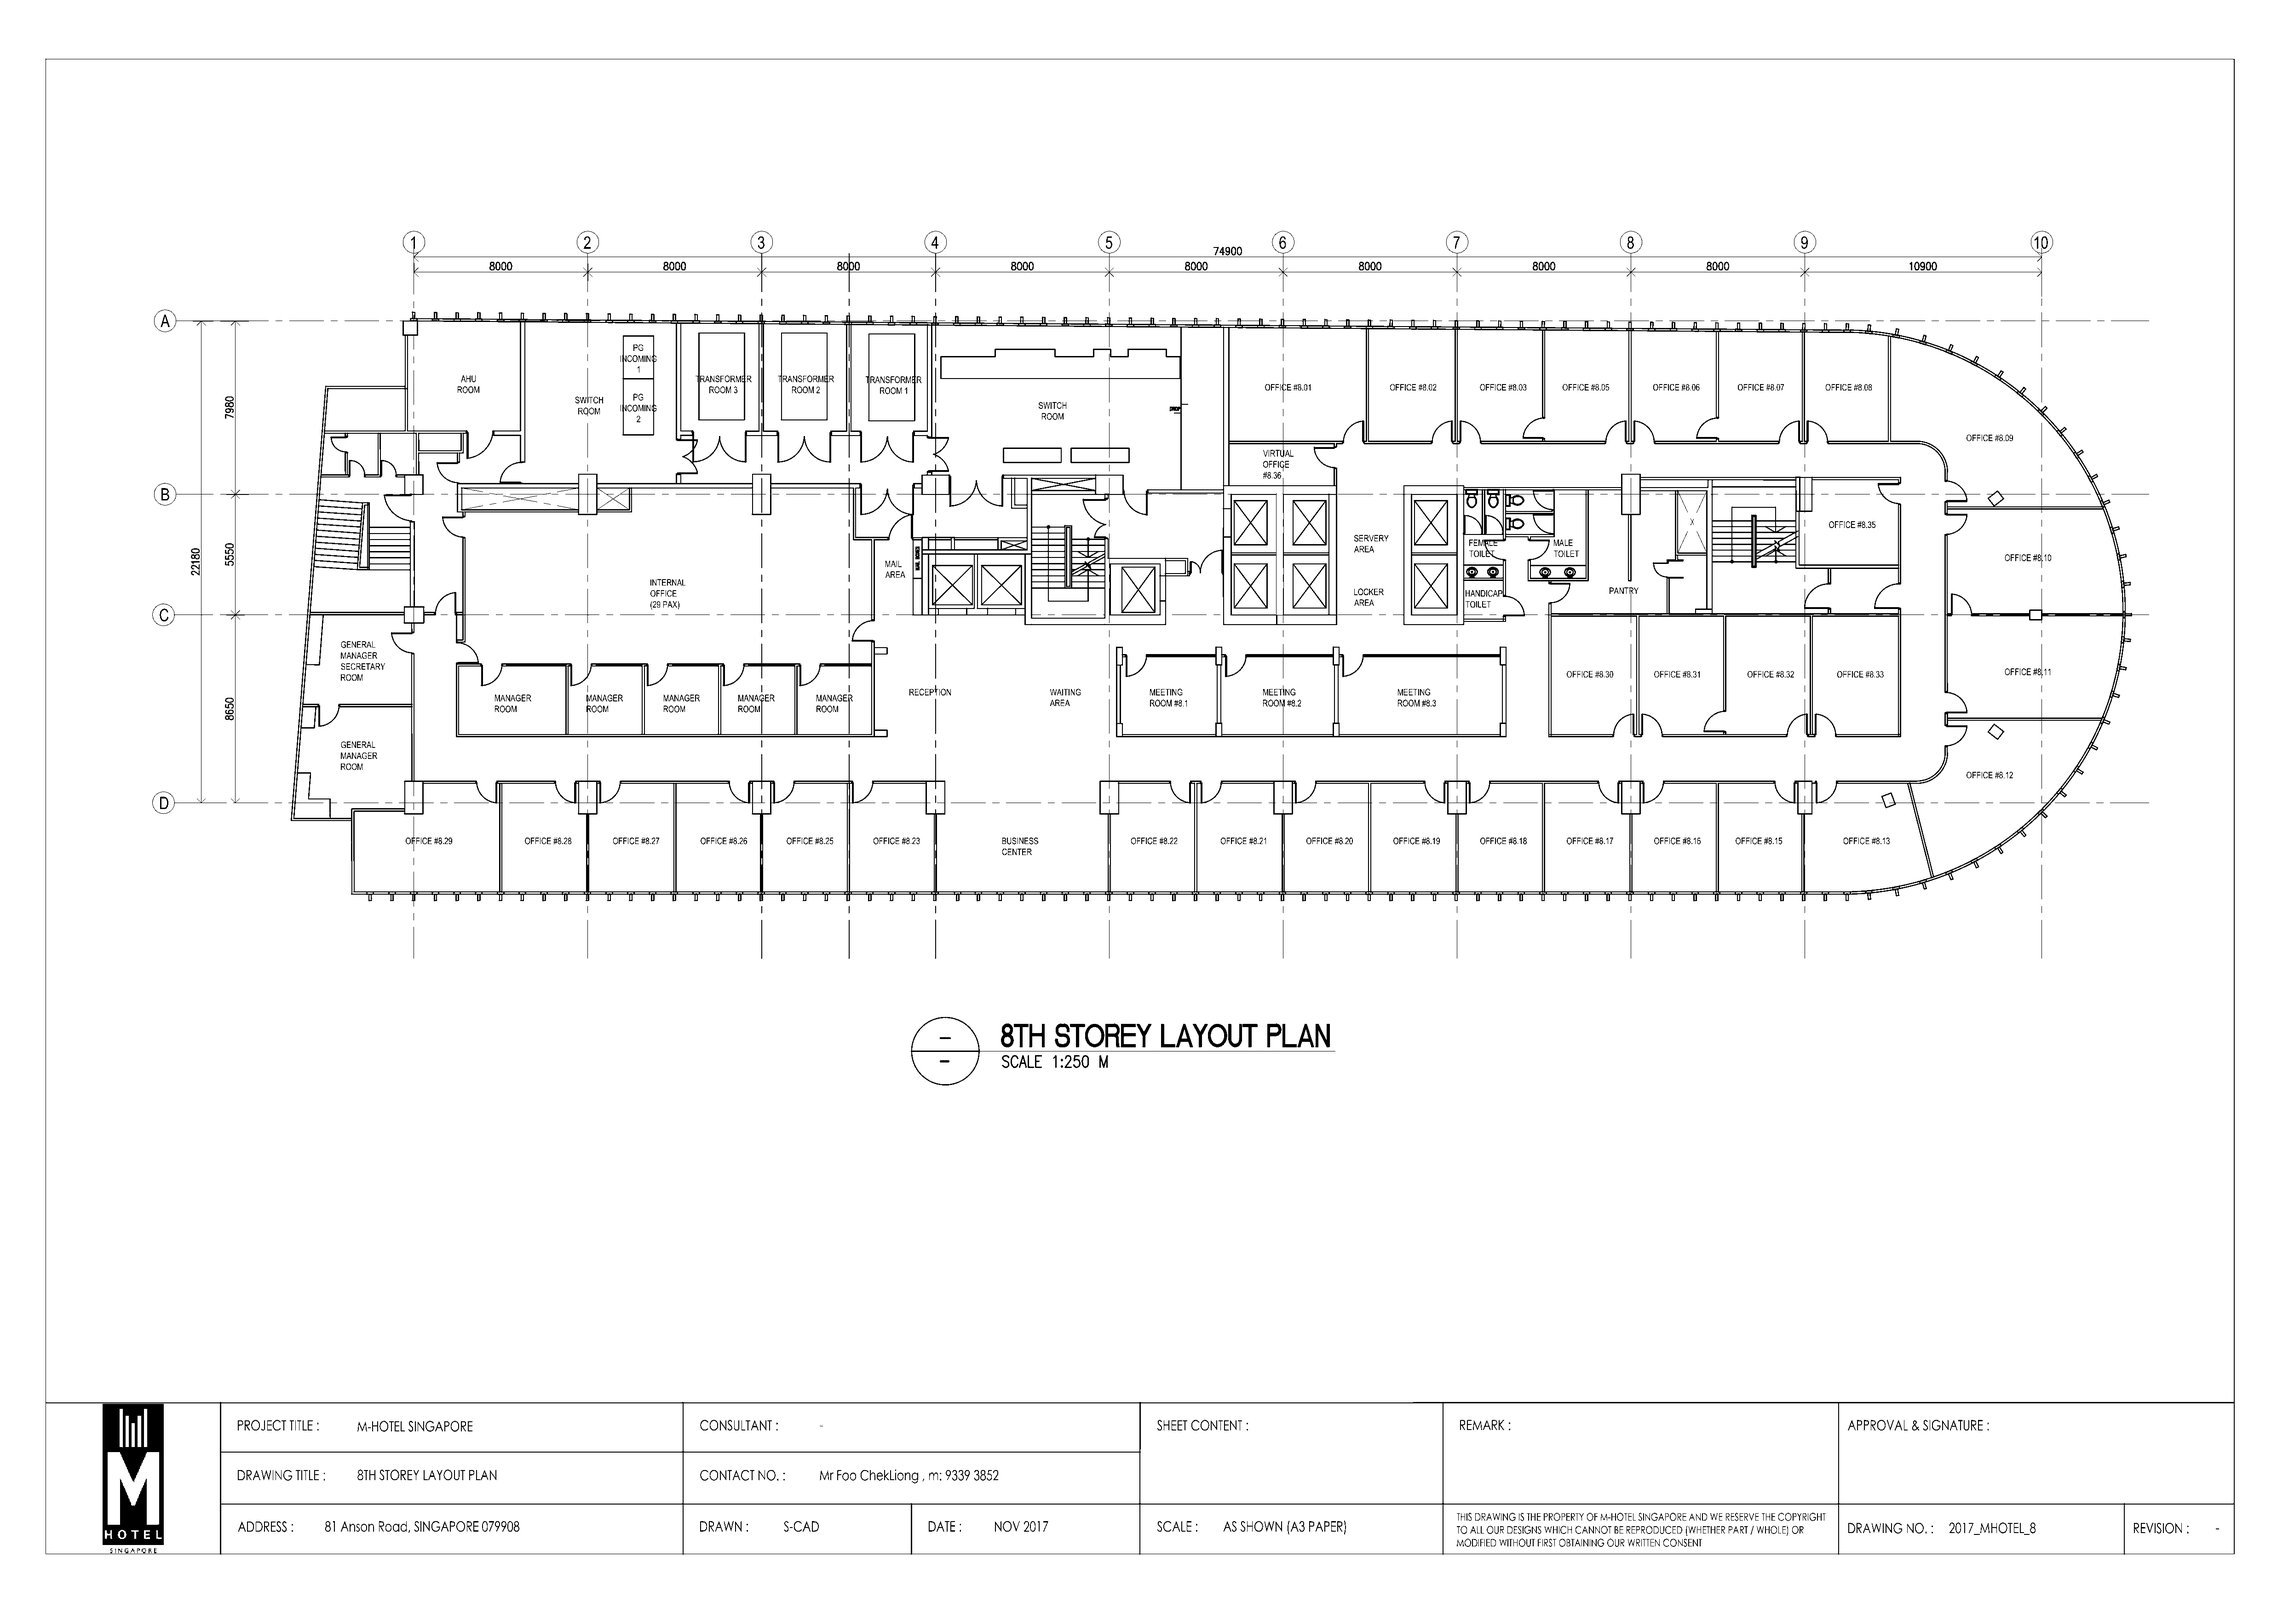
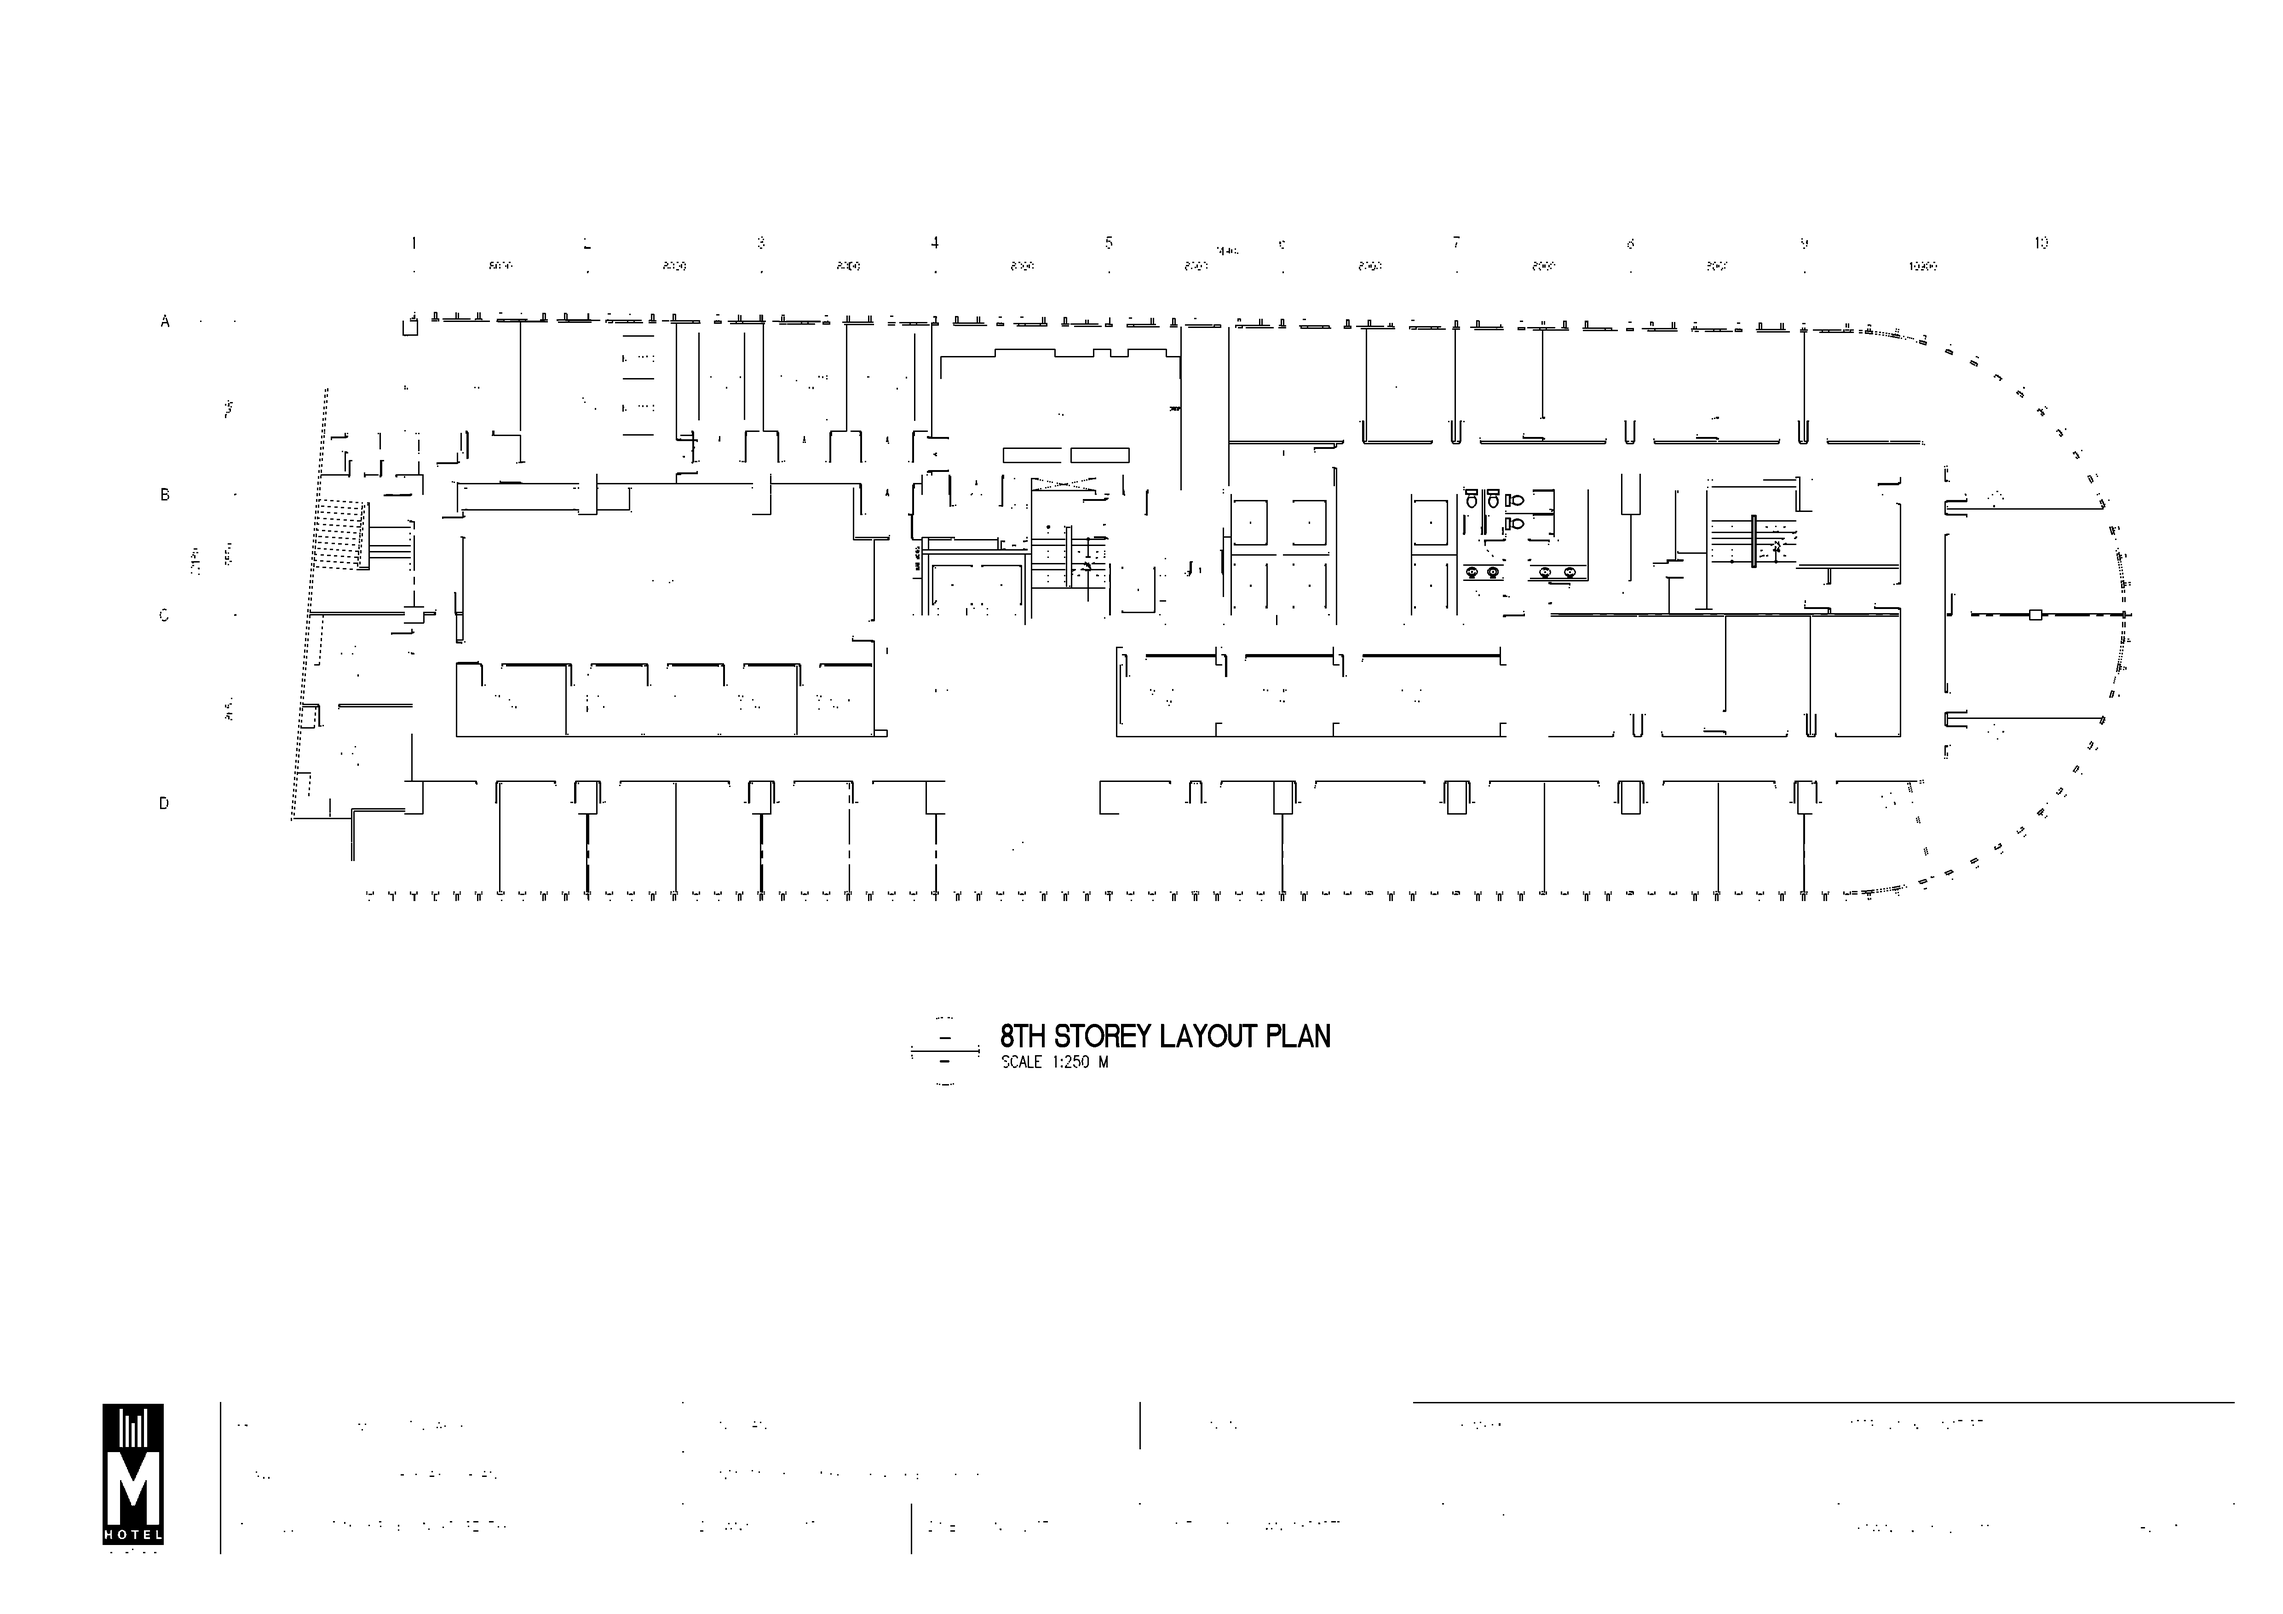
Strip thin annotation lines from occupancy grids
Dimension lines and gridlines in the floorplan scans were being marked
occupied along with real walls, since they're drawn at a similar
stroke weight - cutting straight through open corridors. Adds an
optional per-floorplan morphological opening (opening_kernel_px) that
strips lines thinner than a configured pixel width before
thresholding, tuned per scan since a size that clears annotation lines
on one floorplan can start eating real walls on another.

Changed region(s): [[0.6559, 0.9319, 0.7495, 0.963], [0.4685, 0.3417, 0.4997, 0.3728]]

diff --git a/pudubot2_sim/mapping/floorplan.py b/pudubot2_sim/mapping/floorplan.py
@@ -12,7 +12,7 @@ from dataclasses import dataclass
 from pathlib import Path
 
 import numpy as np
-from PIL import Image
+from PIL import Image, ImageFilter
 
 from pudubot2_sim.config import Config
 
@@ -48,10 +48,26 @@ def build_occupancy_grid(
     origin_x: float,
     origin_y: float,
     rotation_degrees: float = 0.0,
+    opening_kernel_px: int = 0,
 ) -> OccupancyGrid:
+    """Thresholds a floorplan scan into an occupancy grid.
+
+    Architectural floorplan scans mix wall linework with thin annotation
+    lines (dimension lines, gridlines) at a similar stroke weight, so a
+    plain intensity threshold marks both as occupied - including lines
+    that cut straight through open corridors. `opening_kernel_px`, if set,
+    applies a morphological opening (erode then dilate) to strip lines
+    thinner than that many pixels before thresholding. It needs tuning per
+    floorplan: too small leaves annotation lines in, too large starts
+    eating real walls, since both are drawn at a similar weight in some
+    scans.
+    """
     image = Image.open(floorplan_path).convert("L")
     if rotation_degrees:
         image = image.rotate(rotation_degrees, expand=True)
+    if opening_kernel_px > 1:
+        image = image.filter(ImageFilter.MaxFilter(opening_kernel_px))
+        image = image.filter(ImageFilter.MinFilter(opening_kernel_px))
     occupied = np.array(image) < OCCUPIED_THRESHOLD
     return OccupancyGrid(resolution, origin_x, origin_y, occupied)
 
@@ -74,5 +90,6 @@ def load_occupancy_grids(config: Config) -> dict[str, OccupancyGrid]:
             origin_x=origin["x"],
             origin_y=origin["y"],
             rotation_degrees=floorplan.get("rotation", 0.0),
+            opening_kernel_px=floorplan.get("opening_kernel_px", 0),
         )
     return grids
